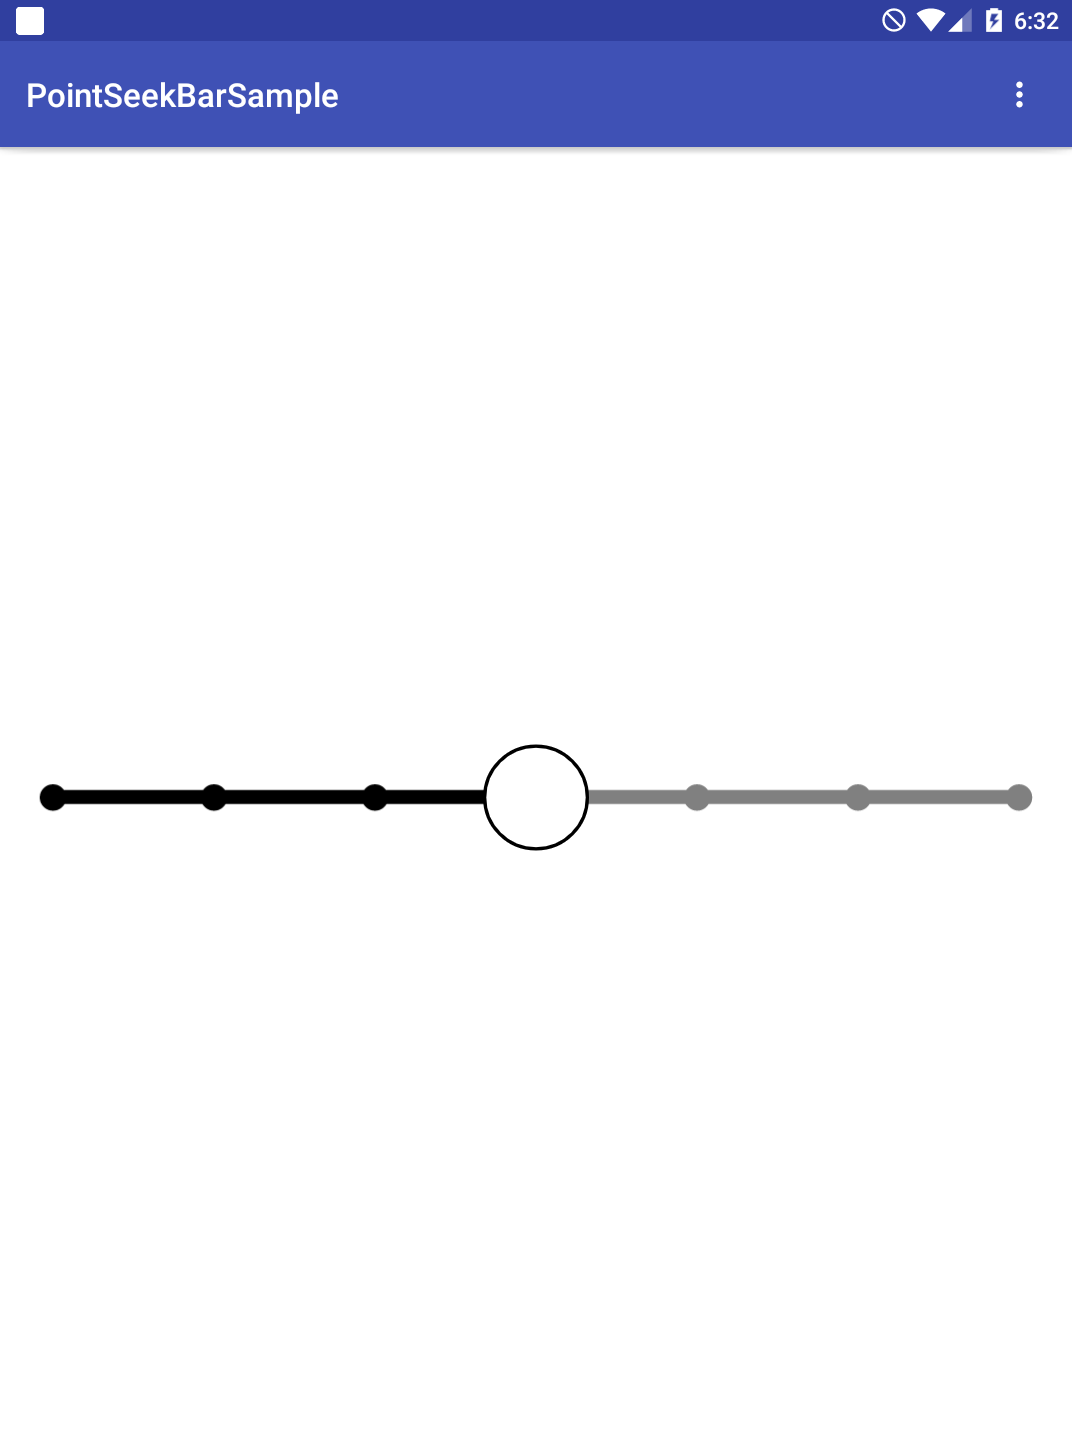
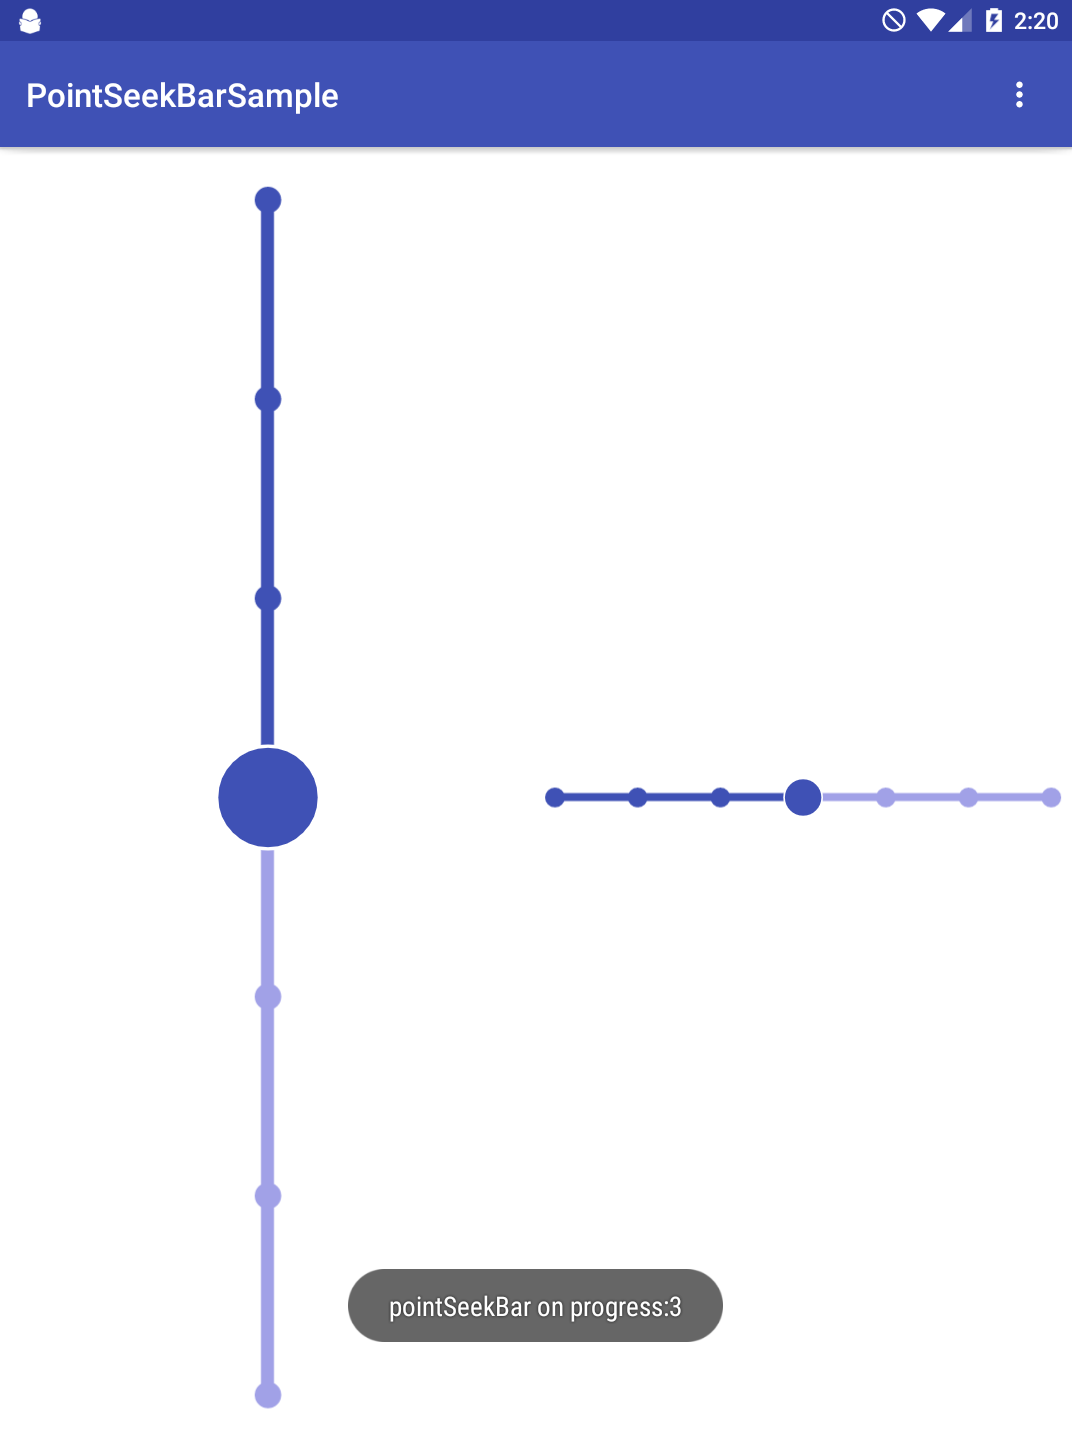
add vertical orientation

diff --git a/pointseekbar/src/main/java/com/cs/seekbar/pointseekbar/PointSeekBar.java b/pointseekbar/src/main/java/com/cs/seekbar/pointseekbar/PointSeekBar.java
@@ -11,11 +11,14 @@ import android.util.AttributeSet;
 import android.util.Log;
 import android.view.MotionEvent;
 import android.view.View;
+import android.widget.LinearLayout;
+
+import static android.R.attr.left;
+import static android.R.attr.x;
 
 /**
  * Created by chenshi on 2017/5/18.
  */
-
 public class PointSeekBar extends View {
     private float mSmallRadius = 8;
     private float mProgressHeight = 8;
@@ -29,12 +32,16 @@ public class PointSeekBar extends View {
     private int _progress = 0;
     private int _max = 5;
     private float mBlockWidth;
+    private int mOrientation;
+
     public PointSeekBar(Context context) {
         this(context, null, R.style.PointSeekBar_Default);
     }
+
     public PointSeekBar(Context context, AttributeSet attrs) {
         this(context, attrs, R.style.PointSeekBar_Default);
     }
+
     public PointSeekBar(Context context, AttributeSet attrs, int defStyleAttr) {
         super(context, attrs, defStyleAttr);
         TypedArray a = context.obtainStyledAttributes(attrs,
@@ -50,12 +57,24 @@ public class PointSeekBar extends View {
         mProgressEmptyColor = a.getColor(R.styleable.PointSeekBar_point_progress_empty_color, Color.GRAY);
         _progress = a.getInt(R.styleable.PointSeekBar_point_progress, 0);
         _max = a.getInt(R.styleable.PointSeekBar_point_max, 5);
+        mOrientation = a.getInt(R.styleable.PointSeekBar_android_orientation, LinearLayout.HORIZONTAL);
         a.recycle();
         mPaint = new Paint(Paint.ANTI_ALIAS_FLAG);
         mPaint.setAntiAlias(true);
         mPaint.setDither(true);
         mPaint.setStrokeCap(Paint.Cap.ROUND);
         mPaint.setStrokeJoin(Paint.Join.ROUND);
+    }
+
+    public void setOrientation(int orientation) {
+        if (mOrientation != orientation) {
+            mOrientation = orientation;
+            requestLayout();
+        }
+    }
+
+    public int getOrientation() {
+        return mOrientation;
     }
 
     public int getProgress() {
@@ -80,7 +99,7 @@ public class PointSeekBar extends View {
         }
     }
 
-    private OnPointSeekBarChangedListener _onPointSeekBarChangedListener;
+    OnPointSeekBarChangedListener _onPointSeekBarChangedListener;
 
     public void setOnSeekBarChangedListener(
             OnPointSeekBarChangedListener onPointSeekBarChangedListener) {
@@ -96,11 +115,14 @@ public class PointSeekBar extends View {
 
     @Override
     public boolean dispatchTouchEvent(MotionEvent event) {
-        float x = event.getX();
+        float offset = event.getX();
+        if (mOrientation == LinearLayout.VERTICAL) {
+            offset = event.getY();
+        }
         switch (event.getAction()) {
             case MotionEvent.ACTION_DOWN:
             case MotionEvent.ACTION_MOVE:
-                setCurrentValueByLocation(x);
+                setCurrentValueByLocation(offset);
                 return true;
             case MotionEvent.ACTION_UP:
                 onValueDone();
@@ -110,6 +132,7 @@ public class PointSeekBar extends View {
     }
 
     private void onValueDone() {
+        Log.d("PointSeekBar", "onProgressChanged:"+_progress);
         if (_onPointSeekBarChangedListener != null) {
             _onPointSeekBarChangedListener.onProgressChanged(this, _progress);
         }
@@ -132,44 +155,74 @@ public class PointSeekBar extends View {
     protected void onDraw(Canvas canvas) {
         int width = getMeasuredWidth();
         int height = getMeasuredHeight();
-        float verticalSplit = (height + getPaddingTop() - getPaddingBottom()) * 1.0f / 2;
+        float halfSplit = (height + getPaddingTop() - getPaddingBottom()) * 1.0f / 2;
+        if (mOrientation == LinearLayout.VERTICAL) {
+            halfSplit =  (width + getPaddingLeft() - getPaddingRight()) * 1.0f / 2;
+        }
         mBlockWidth = (width - getPaddingLeft() - getPaddingRight() - mBlockRadius * 2) * 1.0f / _max;
+        if (mOrientation == LinearLayout.VERTICAL) {
+            mBlockWidth = (height - getPaddingTop() - getPaddingBottom() - mBlockRadius * 2) * 1.0f / _max;
+        }
         Path activePath = new Path();
         Path disabledPath = new Path();
-        int left = (int) (getPaddingLeft() + mBlockRadius);
-        int top = (int) (verticalSplit - mProgressHeight / 2);
-        int right = (int) (width - getPaddingRight() - mBlockRadius);
-        int bottom =  (int) (verticalSplit + mProgressHeight / 2);
-        activePath.addRect(left, top, left +  mBlockWidth * _progress, bottom, Path.Direction.CW);
-        disabledPath.addRect(left +  mBlockWidth * _progress, top, right, bottom, Path.Direction.CW);
-        float curX = 0;
-        for (int i = 0; i <= _max; i++) {
-            float x = left + i * mBlockWidth;
-            if (i < _progress) {
-                activePath.addCircle(x, verticalSplit, mSmallRadius, Path.Direction.CW);
-            }else if (i > _progress) {
-                disabledPath.addCircle(x, verticalSplit, mSmallRadius, Path.Direction.CW);
-            }else {
-                curX = x;
-            }
-        }
-        if(_progress < _max){
-            disabledPath.addCircle(right, verticalSplit, mSmallRadius, Path.Direction.CW);
+        int left, top, right, bottom;
+        if (mOrientation == LinearLayout.VERTICAL) {
+            left = (int) (halfSplit - mProgressHeight / 2 + getPaddingLeft());
+            top = (int) (mBlockRadius + getPaddingTop());
+            right = (int) (halfSplit + mProgressHeight / 2 - getPaddingRight());
+            bottom =  (int) (height - mBlockRadius - getPaddingBottom());
         }else {
-            activePath.addCircle(right, verticalSplit, mSmallRadius, Path.Direction.CW);
+            left = (int) (mBlockRadius + getPaddingLeft());
+            top = (int) (halfSplit - mProgressHeight / 2 + getPaddingTop());
+            right = (int) (width - mBlockRadius - getPaddingRight());
+            bottom =  (int) (halfSplit + mProgressHeight / 2 - getPaddingBottom());
+        }
+        if (mOrientation == LinearLayout.VERTICAL) {
+            activePath.addRect(left, top, right, top +  +  mBlockWidth * _progress,  Path.Direction.CW);
+            disabledPath.addRect(left, top  +  mBlockWidth * _progress, right, bottom, Path.Direction.CW);
+        }else {
+            activePath.addRect(left, top, left +  mBlockWidth * _progress, bottom,  Path.Direction.CW);
+            disabledPath.addRect(left +  mBlockWidth * _progress, top, right, bottom, Path.Direction.CW);
+        }
+        float center = 0;
+        float offset = 0;
+        for (int i = 0; i <= _max; i++) {
+            offset = mOrientation == LinearLayout.VERTICAL ? top + i * mBlockWidth :  left + i * mBlockWidth;
+            if (i < _progress) {
+                if (mOrientation == LinearLayout.VERTICAL) {
+                    activePath.addCircle(halfSplit, offset, mSmallRadius, Path.Direction.CW);
+                }else {
+                    activePath.addCircle(offset, halfSplit, mSmallRadius, Path.Direction.CW);
+                }
+            }else if (i > _progress) {
+                if (mOrientation == LinearLayout.VERTICAL) {
+                    disabledPath.addCircle(halfSplit, offset, mSmallRadius, Path.Direction.CW);
+                }else {
+                    disabledPath.addCircle(offset, halfSplit, mSmallRadius, Path.Direction.CW);
+                }
+            }else {
+                center = offset;
+            }
         }
         mPaint.setStyle(Paint.Style.FILL);
         mPaint.setColor(mProgressFullColor);
         canvas.drawPath(activePath, mPaint);
         mPaint.setColor(mProgressEmptyColor);
         canvas.drawPath(disabledPath, mPaint);
-
         //cur progress
         mPaint.setColor(mBlockBorderLineColor);
-        canvas.drawCircle(curX, verticalSplit, mBlockRadius, mPaint);
+        if (mOrientation == LinearLayout.VERTICAL) {
+            canvas.drawCircle(halfSplit, center, mBlockRadius, mPaint);
+        }else {
+            canvas.drawCircle(center, halfSplit, mBlockRadius, mPaint);
+        }
         mPaint.setColor(mBlockBorderFillColor);
-        canvas.drawCircle(curX, verticalSplit, mBlockRadius - mBlockBorderWidth, mPaint);
+        if (mOrientation == LinearLayout.VERTICAL) {
+            canvas.drawCircle(halfSplit, center, mBlockRadius - mBlockBorderWidth, mPaint);
+        }else {
+            canvas.drawCircle(center, halfSplit, mBlockRadius - mBlockBorderWidth, mPaint);
+        }
     }
-
 }
+
 

diff --git a/app/src/main/java/demo/cs/com/sample/MainActivity.java b/app/src/main/java/demo/cs/com/sample/MainActivity.java
@@ -25,6 +25,14 @@ public class MainActivity extends AppCompatActivity {
                 Toast.makeText(MainActivity.this,"pointSeekBar on progress:" + progress,Toast.LENGTH_SHORT).show();
             }
         });
+
+        PointSeekBar seekBar2 = (PointSeekBar) findViewById(R.id.psb2);
+        seekBar2.setOnSeekBarChangedListener(new PointSeekBar.OnPointSeekBarChangedListener(){
+            @Override
+            public void onProgressChanged(PointSeekBar pointSeekBar, int progress) {
+                Toast.makeText(MainActivity.this,"pointSeekBar on progress:" + progress,Toast.LENGTH_SHORT).show();
+            }
+        });
     }
 
     @Override
